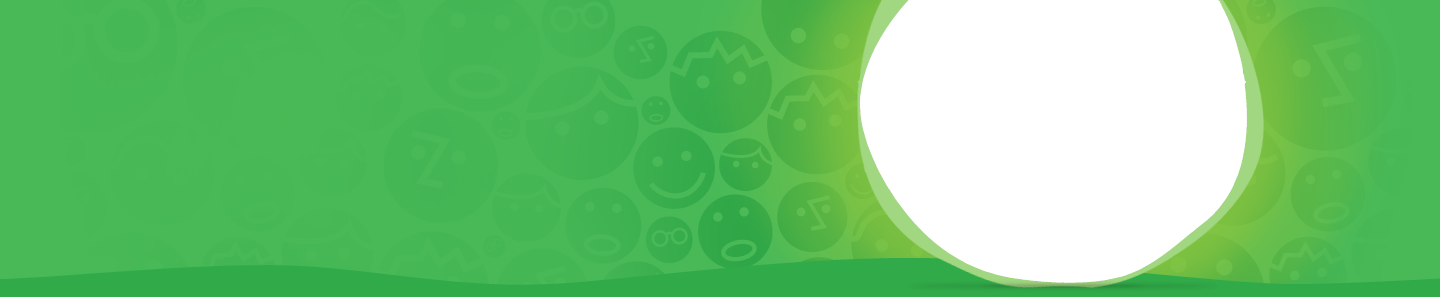
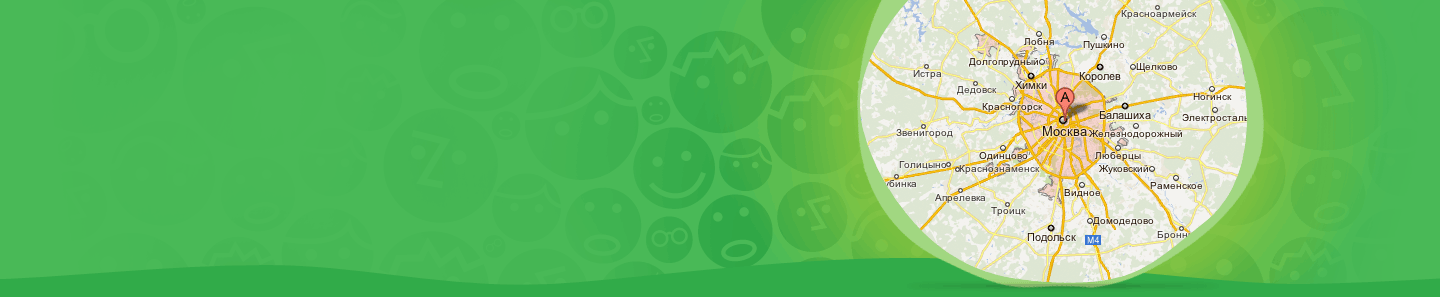
update

Changed region(s): [[0.5938, 0.0, 0.875, 0.9697]]

diff --git a/style.css b/style.css
@@ -49,10 +49,6 @@ h1#site-name {
     height: 390px;
     background: url('images/bg04.png') no-repeat 50% 0;
 }
-.front #header-region {
-    background: url('images/bg04.png') no-repeat 50% 0;
-    height: 390px;
-}
 
 #header-region {
     color: #fff;

diff --git a/page.tpl.php b/page.tpl.php
@@ -27,11 +27,11 @@
 <div id="site-subheader-wrapper" class="clearfix">
 <div id="site-subheader" class="container-16 clearfix">
     
-  <?php if ($is_front): ?>
-    <div id="front_map">
+  <?php // if ($is_front): ?>
+    <!--<div id="front_map">
         <iframe width="428" height="297" frameborder="0" scrolling="no" marginheight="0" marginwidth="0" src="http://maps.google.com/maps?f=q&amp;source=s_q&amp;hl=en&amp;geocode=&amp;q=tallinn,+estonia&amp;aq=&amp;sll=37.0625,-95.677068&amp;sspn=55.455479,114.169922&amp;vpsrc=6&amp;ie=UTF8&amp;hq=&amp;hnear=Tallinn,+Harju+County,+Estonia&amp;t=m&amp;ll=59.439839,24.753742&amp;spn=0.025922,0.073299&amp;z=13&amp;output=embed"></iframe>
-    </div>
-  <?php endif; ?>
+    </div>-->
+  <?php // endif; ?>
   
 
   <?php if ($page['highlighted']): ?>
